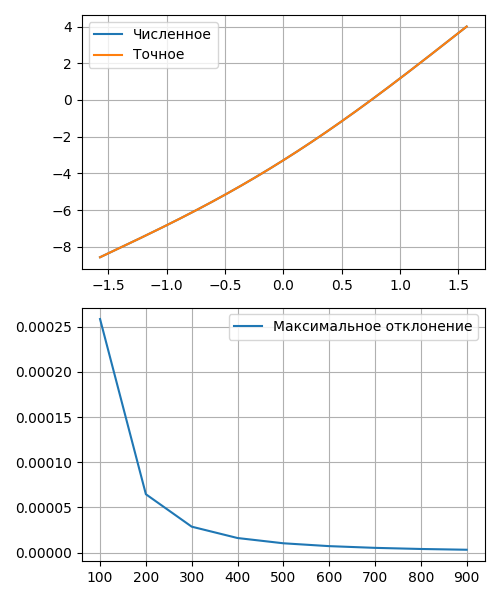
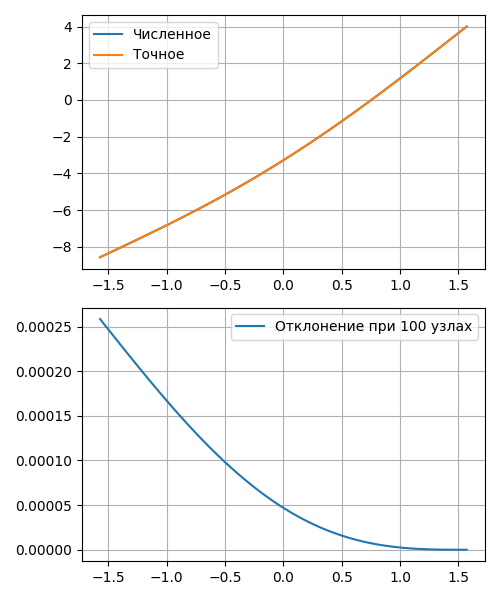
show deviation graphic each time

diff --git a/tasks/tridiagonal_matrix_algorithm/tridiagonal_matrix_algorithm.py b/tasks/tridiagonal_matrix_algorithm/tridiagonal_matrix_algorithm.py
@@ -110,9 +110,6 @@ def plot_max_deviation(option: int, bounds: tuple, func: Callable):
 
     l, r = bounds
     STEPS = [100 * x for x in range(1, 10)]
-    deviation = []
-
-    X, Y, Y_exact = [], [], []
 
     for amount in STEPS:
         h = (r - l) / amount
@@ -124,21 +121,20 @@ def plot_max_deviation(option: int, bounds: tuple, func: Callable):
         c1 = m1 + 1
         c2 = m2 - c1 * pi / 2
         Y_exact = [(-cos(x) + c1 * x + c2) for x in X]
-        deviation.append(max([abs(Y[i] - Y_exact[i]) for i in range(len(Y))]))
+        deviation = [abs(Y[i] - Y_exact[i]) for i in range(len(Y))]
 
-    # plot
-    fig, axs = plt.subplots(2, 1, figsize=(5, 6), tight_layout=True)
-    axs[0].grid(True)
-    axs[1].grid(True)
+        # plot
+        fig, axs = plt.subplots(2, 1, figsize=(5, 6), tight_layout=True)
+        axs[0].grid(True)
+        axs[1].grid(True)
 
-    axs[0].plot(X, Y, label="Численное")
-    axs[0].plot(X, Y_exact, label="Точное")
+        axs[0].plot(X, Y, label="Численное")
+        axs[0].plot(X, Y_exact, label="Точное")
+        axs[1].plot(X, deviation, label=f"Отклонение при {amount} узлах")
 
-    axs[1].plot(STEPS, deviation, label="Максимальное отклонение")
-
-    axs[0].legend()
-    axs[1].legend()
-    plt.show()
+        axs[0].legend()
+        axs[1].legend()
+        plt.show()
 
 
 # Функция для построения графиков точного и численного решений.
